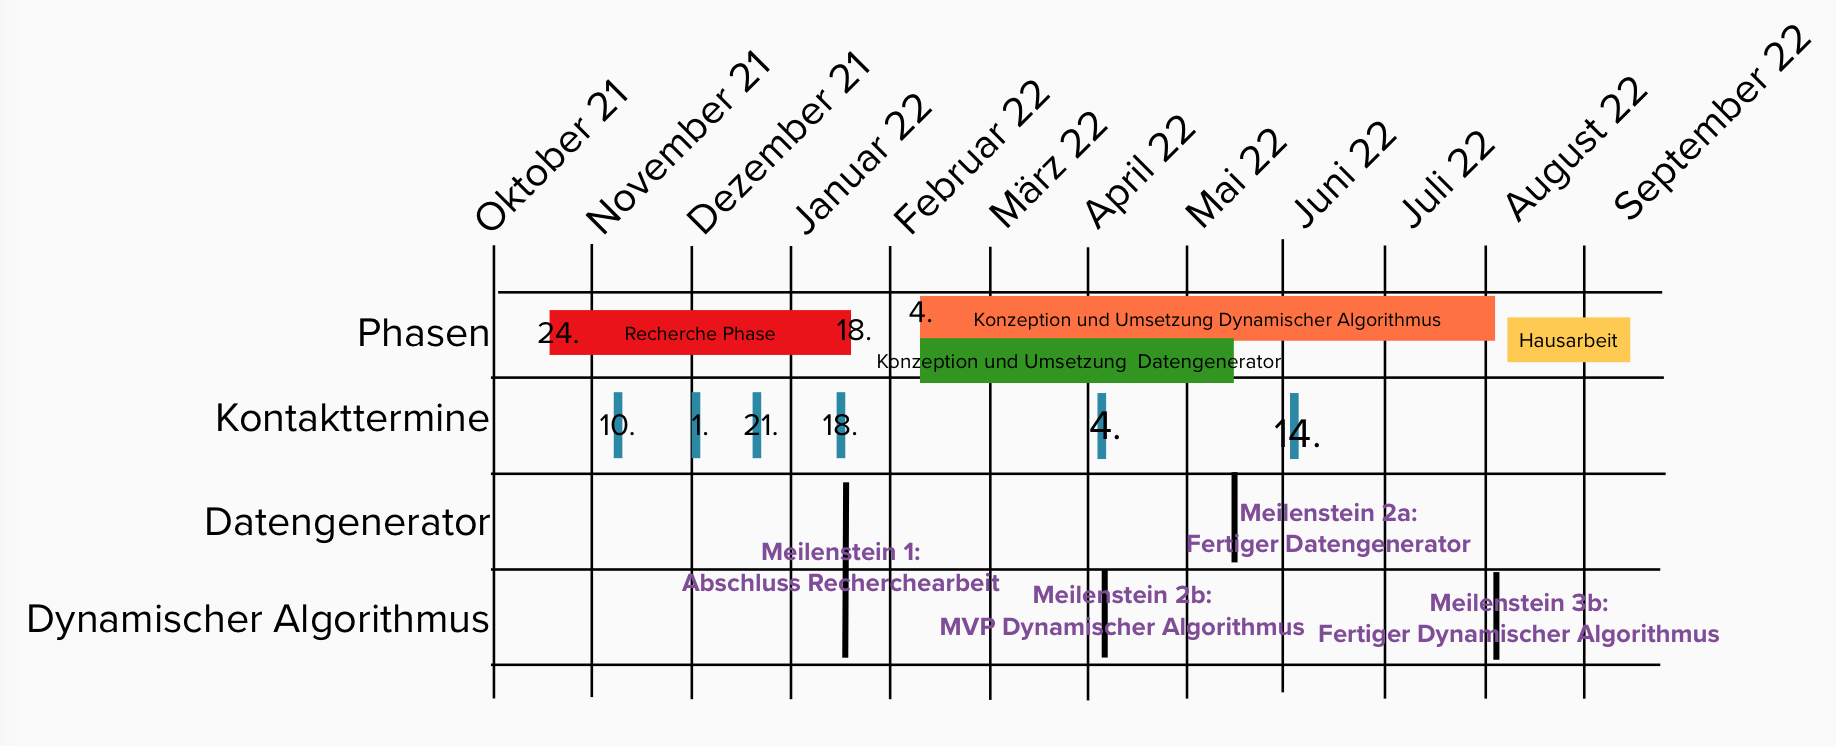
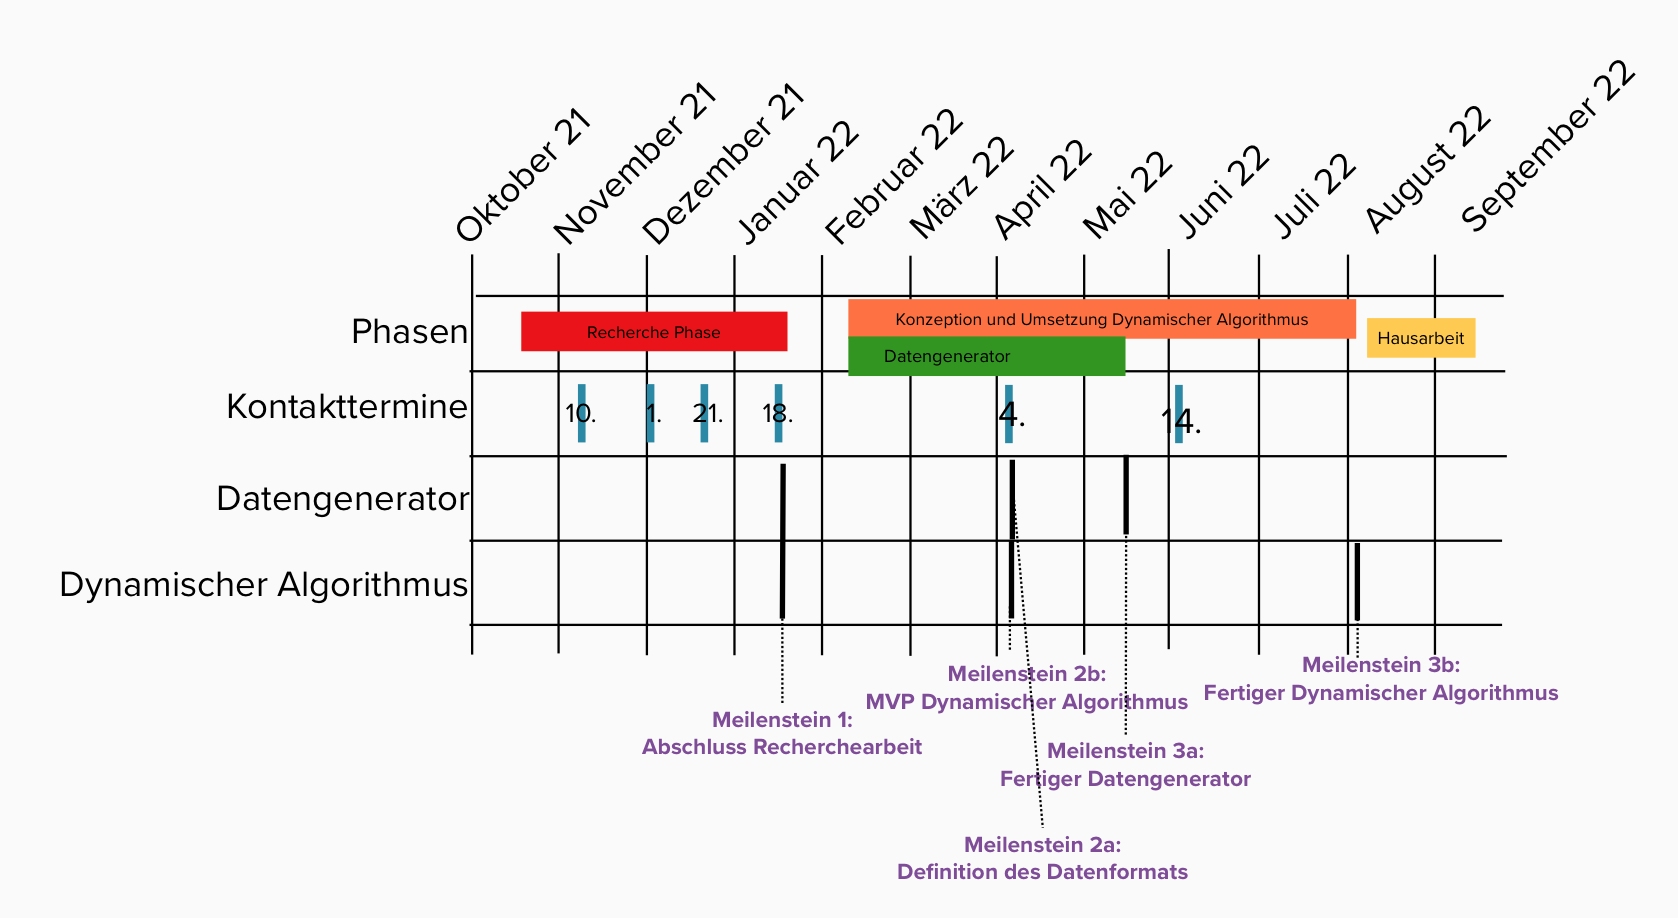
Kandidaten checken

Changed region(s): [[0.0, 0.0617, 0.9607, 0.9558], [0.9607, 0.0308, 0.9917, 0.0925]]

diff --git a/D5_Algorithmenentwurf.md b/D5_Algorithmenentwurf.md
@@ -28,4 +28,11 @@ In einer Pipeline werden nacheinander durch verschiedene Prüfungen Kandidaten a
 
 3. Bloom Filter
 
+Ein weiterer Ausschluss findet durch Nutzung von Bloom Filtern statt. Diese erstellen pro Attribut ein Art Filter, in Form eines Hashwertes...
+
 ## Kandidaten Checken
+
+Nachdem wir in der Vorarbeit die Anzahl an Attributen, die wir auf Inclusion Dependencies überprüfen so weit wie möglich reduziert haben, werden nun die übrig gebliebenen Kandidaten überprüft. Erst jetzt werden die gespeicherten Tabellen abgerufen um die relevanten Spalten miteinander zu vergleichen.
+Hierbei betreiben wir ebenfalls eine Optimierung. Wenn eine gewisse Anzahl an Werten in beiden Attributen untersucht wurde, und die Anzahl verbliebener Werte nicht mehr ausreicht um noch eine Inclusion Dependency zu ergebn, brechen wir ab. Beispiel:
+A hat 100 einzigarte Werte, B hat 80 einzigartige Werte: Wenn in den ersten 21 Werten von A kein einziger Wert von B auftaucht, so kann B nicht mehr vollständig in A enthalten sein. Hier kann bereits abgebrochen werden.
+Diese Optimierung könnte man auch in einem statischen Algorithmus anwenden.

diff --git a/B4_Zeitplan.md b/B4_Zeitplan.md
@@ -45,13 +45,15 @@ In der nächsten Phase sind wir dazu übergegangen uns in größeren Abständen 
 
 Erste Programmiereinheit: 04.04.2022 - 08.04.2022
 
-In einem einwöchigen Programmiersprint ist ein Großteil des Datengenerators entstanden
+In einem einwöchigen Programmiersprint ist das Konzept und ein Großteil des Datengenerators entstanden. Als Datenformat wurden CSV Tabellen festgelegt, wobei die erste Spalte immer eine explizite Zeilen-Position ist, mit der man alte Daten überschreiben kann.
+
+**_Meilenstein 2a: Definition des Datenformats_**
 
 Zweite Programmiereinheit: 21.05.2022
 
 Fertigstellung des Datengenerators
 
-**_Meilenstein 2a: Fertiger Datengenerator_**
+**_Meilenstein 3a: Fertiger Datengenerator_**
 
 **Ergebnis: g**
 
